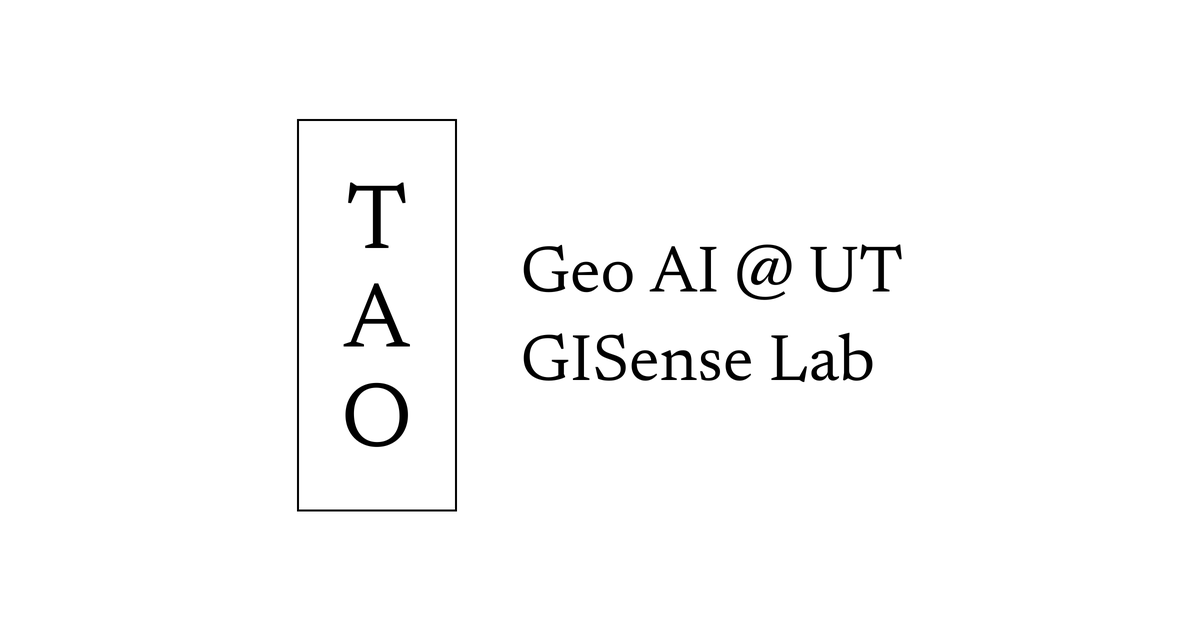
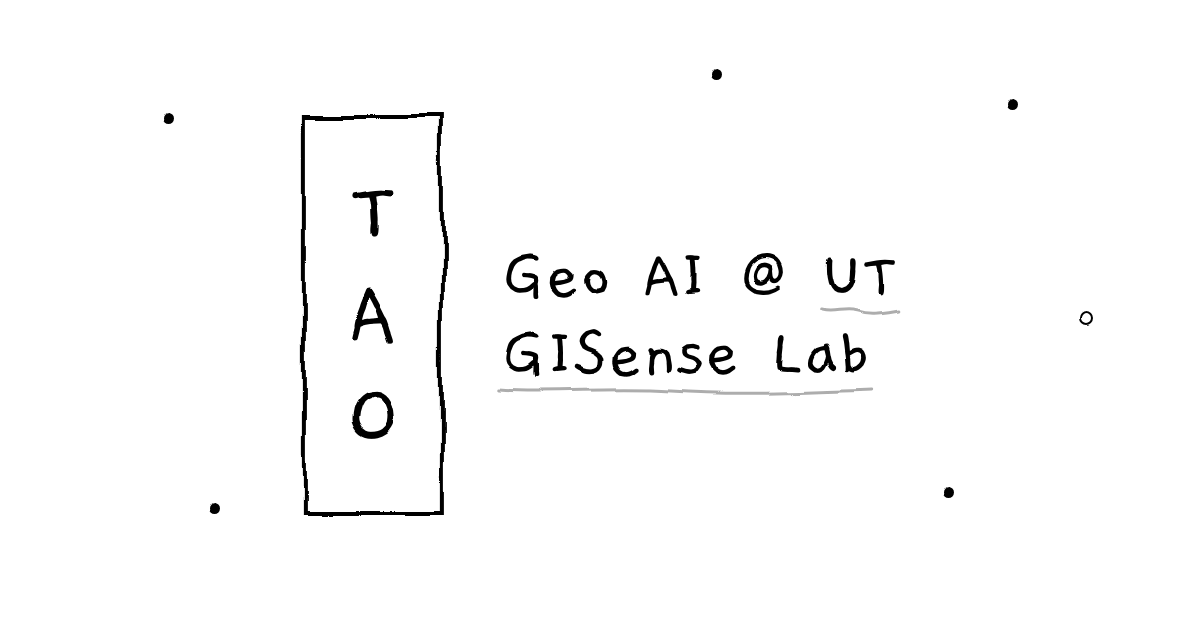
hand-drawn share card

diff --git a/index.html b/index.html
@@ -12,22 +12,23 @@
 <link rel="apple-touch-icon" href="/apple-touch-icon.png">
 <meta name="theme-color" content="#ffffff">
 
-<!-- share card info -->
+<!-- share card info. sites keep a copy of the image, so the number after ?v= goes up when the image changes -->
 <meta property="og:type" content="website">
 <meta property="og:site_name" content="tao">
 <meta property="og:title" content="tao">
 <meta property="og:description" content="Geo AI @ UT, GISense Lab.">
 <meta property="og:url" content="https://taotdm.com/">
-<meta property="og:image" content="https://taotdm.com/images/og-void.png">
-<meta property="og:image:secure_url" content="https://taotdm.com/images/og-void.png">
+<meta property="og:image" content="https://taotdm.com/images/og-void.png?v=2">
+<meta property="og:image:secure_url" content="https://taotdm.com/images/og-void.png?v=2">
 <meta property="og:image:type" content="image/png">
 <meta property="og:image:width" content="1200">
 <meta property="og:image:height" content="630">
-<meta property="og:image:alt" content="a hairline box with the letters t, a, o stacked, beside the words geo ai at ut, gisense lab.">
+<meta property="og:image:alt" content="a hand-drawn box with the letters t, a, o stacked, beside the handwritten words geo ai at ut, gisense lab, with a few small dots around them.">
 <meta name="twitter:card" content="summary_large_image">
 <meta name="twitter:title" content="tao">
 <meta name="twitter:description" content="Geo AI @ UT, GISense Lab.">
-<meta name="twitter:image" content="https://taotdm.com/images/og-void.png">
+<meta name="twitter:image" content="https://taotdm.com/images/og-void.png?v=2">
+<meta name="twitter:image:alt" content="a hand-drawn box with the letters t, a, o stacked, beside the handwritten words geo ai at ut, gisense lab, with a few small dots around them.">
 
 <!-- the screen fonts are files of the site, in public/fonts. the hand font is needed for the first paint -->
 <link rel="preload" href="/fonts/gaegu.woff2" as="font" type="font/woff2" crossorigin>
